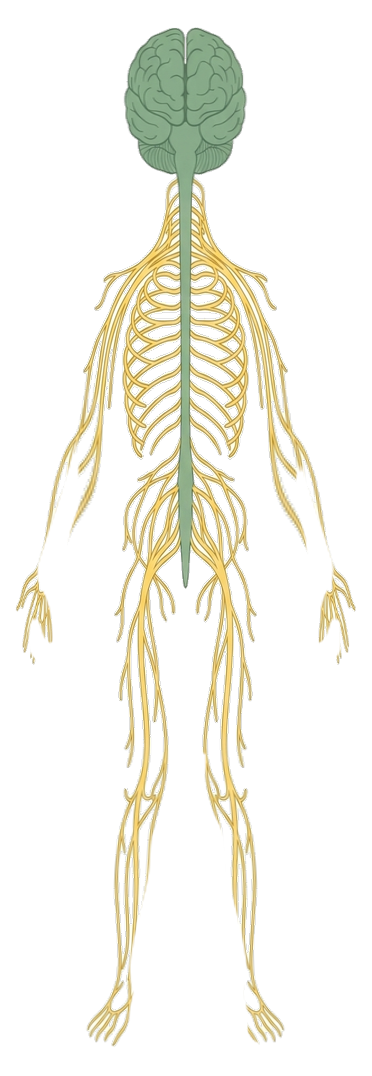
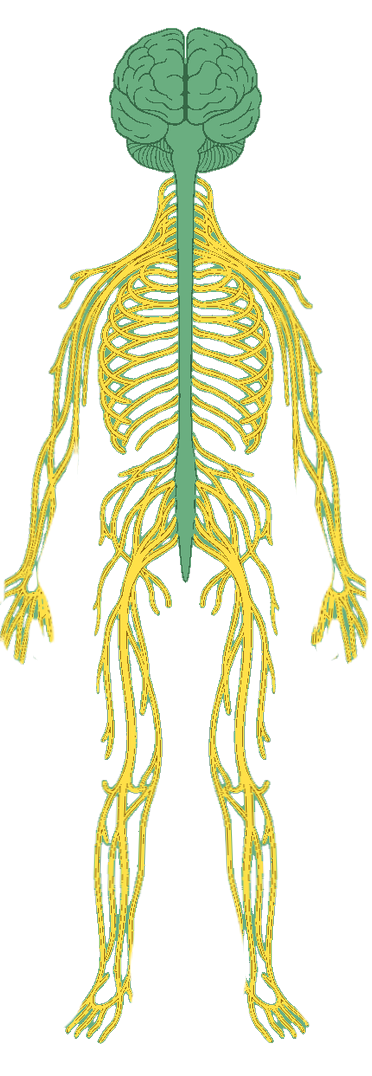
Use uniform scaling, hinged arms, and high-contrast sage/gold palette for younger boy nervous system

diff --git a/sw.js b/sw.js
@@ -1,5 +1,5 @@
 // Riley PWA Service Worker
-const CACHE_NAME = 'riley-pwa-v365';
+const CACHE_NAME = 'riley-pwa-v366';
 const PRECACHE_ASSETS = [
   './',
   './index.html',
